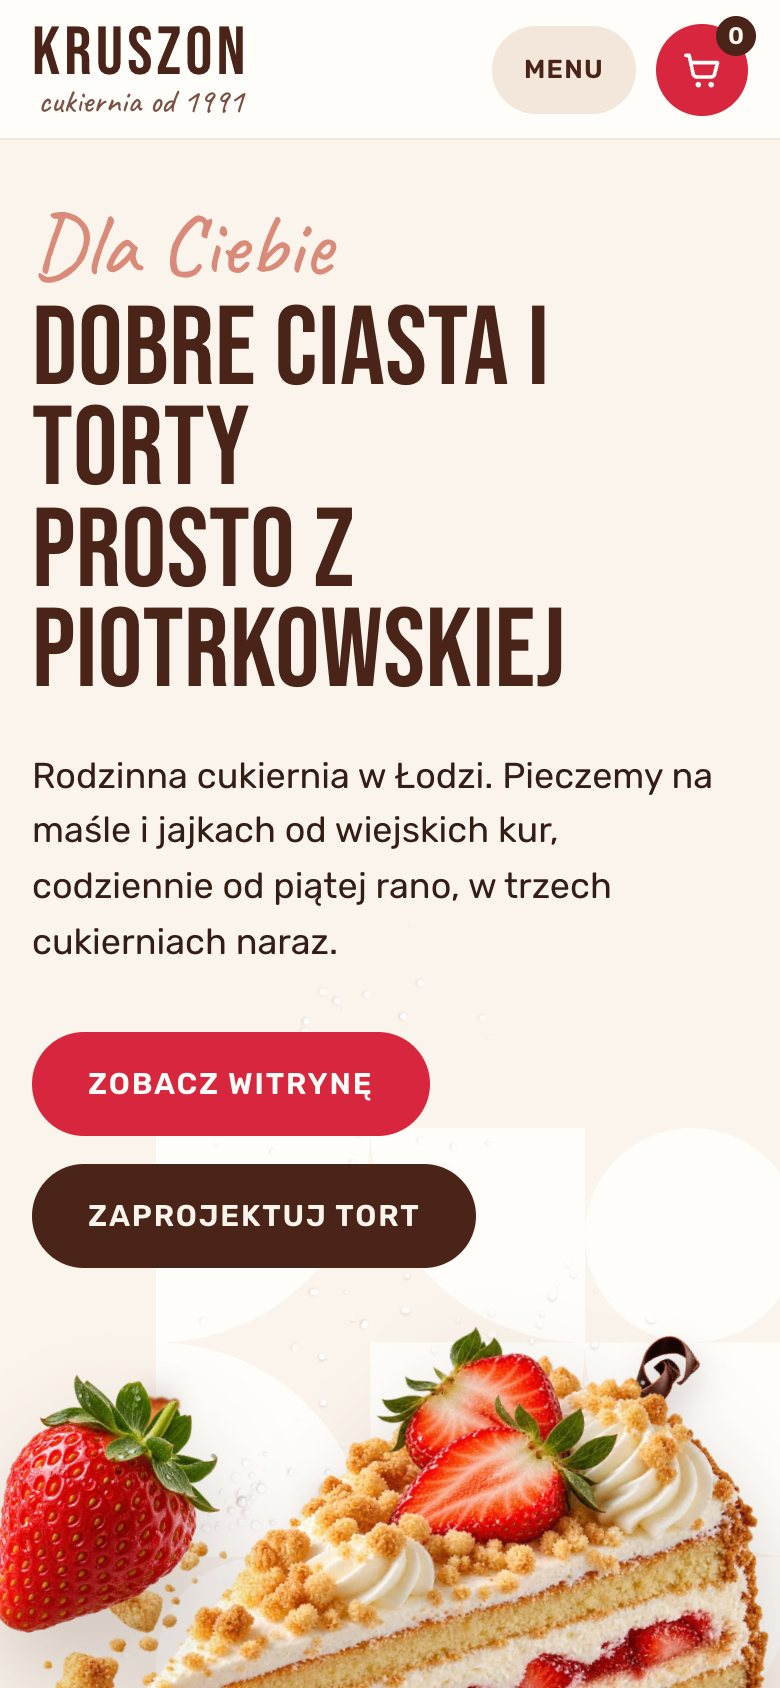
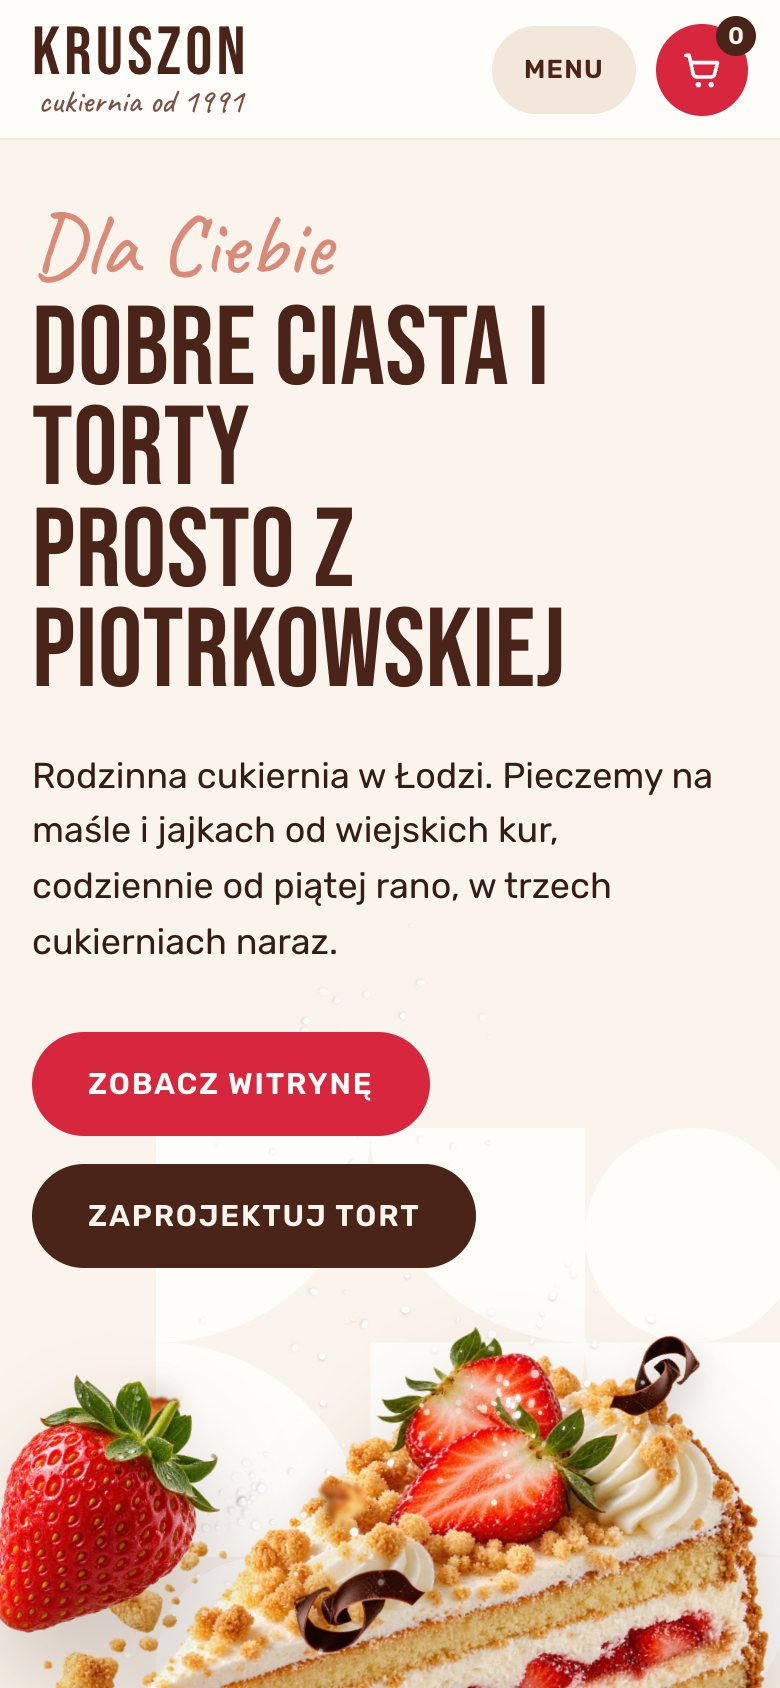
Kruszon: bez kępy owoców w pierwszym ekranie, truskawka i drobiny nad tortem; stopka w kolorze ciemnego dżemu

diff --git a/design/concepts/kruszon.html b/design/concepts/kruszon.html
@@ -10,7 +10,7 @@
 <link rel="preconnect" href="https://fonts.gstatic.com" crossorigin>
 <link href="https://fonts.googleapis.com/css2?family=Bebas+Neue&family=Caveat:wght@500;600&family=Rubik:wght@400;500;600&display=swap" rel="stylesheet">
 <script>(function(){var m=location.search.match(/[?&]pal=(\w+)/);if(m)document.documentElement.dataset.pal=m[1];document.documentElement.classList.add("js")})()</script>
-<link rel="stylesheet" href="assets/kruszon/site.css?v=6">
+<link rel="stylesheet" href="assets/kruszon/site.css?v=7">
 <style>
   .hero { position:relative; min-height:calc(100svh - 104px); display:grid; grid-template-columns:1fr 1fr; align-items:center; overflow:hidden; }
   .hero .pattern { position:absolute; right:-4vw; top:6%; width:min(50vw, 740px); z-index:0; }
@@ -21,7 +21,9 @@
   .hero .ctas { display:flex; gap:14px; margin-top:30px; flex-wrap:wrap; }
   .hero .stage { position:relative; z-index:1; height:100%; min-height:560px; }
   .hero .main { position:absolute; z-index:2; width:min(48vw, 760px); right:1%; top:22%; transform:rotate(-8deg); }
-  .hero .berry { z-index:3; }
+  /* truskawka i drobiny lecą nad kawałkiem tortu */
+  .hero .stage .scatter { z-index:3; }
+  .hero .berry { z-index:4; }
   .js .hero .main { animation:drop 1300ms 150ms var(--ease-out) both; }
   @keyframes drop { from { transform:translate(90px, -70px) rotate(10deg) scale(.86); opacity:0; } to { transform:rotate(-8deg); opacity:1; } }
 
@@ -139,7 +141,6 @@
   <div class="stage" aria-hidden="true" data-fly-box data-scatter="czek:4 krusz:6 cukier:3" data-scatter-x="5-95">
     <img class="main cut" src="assets/kruszon/gen/kawalek-tortu.webp" width="901" height="651" alt="" fetchpriority="high">
     <img class="flyer cut berry" style="--w:clamp(120px,12vw,200px)" data-fly="16 18 10 46 -28 14" src="assets/kruszon/gen/truskawka.webp" width="862" height="901" alt="">
-    <img class="flyer cut" style="--w:clamp(80px,8vw,140px)" data-fly="88 95 92 40 18 -12" src="assets/kruszon/gen/owoce.webp" width="901" height="800" alt="">
   </div>
 </section>
 

diff --git a/public/demo/concepts/kruszon.html b/public/demo/concepts/kruszon.html
@@ -10,7 +10,7 @@
 <link rel="preconnect" href="https://fonts.gstatic.com" crossorigin>
 <link href="https://fonts.googleapis.com/css2?family=Bebas+Neue&family=Caveat:wght@500;600&family=Rubik:wght@400;500;600&display=swap" rel="stylesheet">
 <script>(function(){var m=location.search.match(/[?&]pal=(\w+)/);if(m)document.documentElement.dataset.pal=m[1];document.documentElement.classList.add("js")})()</script>
-<link rel="stylesheet" href="assets/kruszon/site.css?v=6">
+<link rel="stylesheet" href="assets/kruszon/site.css?v=7">
 <style>
   .hero { position:relative; min-height:calc(100svh - 104px); display:grid; grid-template-columns:1fr 1fr; align-items:center; overflow:hidden; }
   .hero .pattern { position:absolute; right:-4vw; top:6%; width:min(50vw, 740px); z-index:0; }
@@ -21,7 +21,9 @@
   .hero .ctas { display:flex; gap:14px; margin-top:30px; flex-wrap:wrap; }
   .hero .stage { position:relative; z-index:1; height:100%; min-height:560px; }
   .hero .main { position:absolute; z-index:2; width:min(48vw, 760px); right:1%; top:22%; transform:rotate(-8deg); }
-  .hero .berry { z-index:3; }
+  /* truskawka i drobiny lecą nad kawałkiem tortu */
+  .hero .stage .scatter { z-index:3; }
+  .hero .berry { z-index:4; }
   .js .hero .main { animation:drop 1300ms 150ms var(--ease-out) both; }
   @keyframes drop { from { transform:translate(90px, -70px) rotate(10deg) scale(.86); opacity:0; } to { transform:rotate(-8deg); opacity:1; } }
 
@@ -139,7 +141,6 @@
   <div class="stage" aria-hidden="true" data-fly-box data-scatter="czek:4 krusz:6 cukier:3" data-scatter-x="5-95">
     <img class="main cut" src="assets/kruszon/gen/kawalek-tortu.webp" width="901" height="651" alt="" fetchpriority="high">
     <img class="flyer cut berry" style="--w:clamp(120px,12vw,200px)" data-fly="16 18 10 46 -28 14" src="assets/kruszon/gen/truskawka.webp" width="862" height="901" alt="">
-    <img class="flyer cut" style="--w:clamp(80px,8vw,140px)" data-fly="88 95 92 40 18 -12" src="assets/kruszon/gen/owoce.webp" width="901" height="800" alt="">
   </div>
 </section>
 

diff --git a/design/concepts/assets/kruszon/site.css b/design/concepts/assets/kruszon/site.css
@@ -7,6 +7,8 @@
 :root, html[data-pal="malina"] {
   --bg:#fbf4ec; --bg-2:#f3e6da; --card:#fffdfa; --accent:#d7263d; --accent-2:#b81c31; --accent-ink:#fffdfa;
   --ink:#341c17; --head:#4a2419; --soft:#7b5146; --script-c:#d98a78; --big:#d7263d; --pattern:#fffdfa; --crumb-a:#c4895d; --crumb-b:#e0b48a;
+  /* stopka w kolorze ciemnego dżemu truskawkowego */
+  --foot:#7d1323; --foot-ink:#fff1ec; --foot-big:#ffe1db; --foot-h:#ff9aa3; --foot-script:#ffc2bd;
 }
 /* Pistacja: zieleń pistacji i gorzka czekolada */
 html[data-pal="pistacja"] {
@@ -147,12 +149,12 @@ p { max-width:68ch; }
 .drawer .msg { font-weight:500; min-height:1.4em; }
 
 /* ---------- stopka ---------- */
-footer { background:var(--head); color:var(--bg); padding:70px var(--m) 40px; position:relative; overflow:hidden; }
+footer { background:var(--foot, var(--head)); color:var(--foot-ink, var(--bg)); padding:70px var(--m) 40px; position:relative; overflow:hidden; }
 footer .wrap { padding:0; }
-footer .big { font:400 clamp(110px, 20vw, 340px)/.8 var(--display); color:var(--accent); letter-spacing:.02em; }
-footer .script { font-size:clamp(34px, 3vw, 52px); color:var(--bg); margin-top:6px; margin-left:4px; }
+footer .big { font:400 clamp(110px, 20vw, 340px)/.8 var(--display); color:var(--foot-big, var(--accent)); letter-spacing:.02em; }
+footer .script { font-size:clamp(34px, 3vw, 52px); color:var(--foot-script, var(--bg)); margin-top:6px; margin-left:4px; }
 footer .cols { display:grid; grid-template-columns:repeat(4, 1fr); gap:24px; margin-top:44px; font-size:15px; }
-footer .cols b { display:block; font:400 24px var(--display); letter-spacing:.04em; color:var(--accent); margin-bottom:8px; }
+footer .cols b { display:block; font:400 24px var(--display); letter-spacing:.04em; color:var(--foot-h, var(--accent)); margin-bottom:8px; }
 footer .cols a { display:block; text-decoration:none; padding:3px 0; }
 footer .cols a:hover { text-decoration:underline; }
 footer .credits { margin-top:40px; font-size:13px; opacity:.75; max-width:75ch; }

diff --git a/public/demo/concepts/assets/kruszon/site.css b/public/demo/concepts/assets/kruszon/site.css
@@ -7,6 +7,8 @@
 :root, html[data-pal="malina"] {
   --bg:#fbf4ec; --bg-2:#f3e6da; --card:#fffdfa; --accent:#d7263d; --accent-2:#b81c31; --accent-ink:#fffdfa;
   --ink:#341c17; --head:#4a2419; --soft:#7b5146; --script-c:#d98a78; --big:#d7263d; --pattern:#fffdfa; --crumb-a:#c4895d; --crumb-b:#e0b48a;
+  /* stopka w kolorze ciemnego dżemu truskawkowego */
+  --foot:#7d1323; --foot-ink:#fff1ec; --foot-big:#ffe1db; --foot-h:#ff9aa3; --foot-script:#ffc2bd;
 }
 /* Pistacja: zieleń pistacji i gorzka czekolada */
 html[data-pal="pistacja"] {
@@ -147,12 +149,12 @@ p { max-width:68ch; }
 .drawer .msg { font-weight:500; min-height:1.4em; }
 
 /* ---------- stopka ---------- */
-footer { background:var(--head); color:var(--bg); padding:70px var(--m) 40px; position:relative; overflow:hidden; }
+footer { background:var(--foot, var(--head)); color:var(--foot-ink, var(--bg)); padding:70px var(--m) 40px; position:relative; overflow:hidden; }
 footer .wrap { padding:0; }
-footer .big { font:400 clamp(110px, 20vw, 340px)/.8 var(--display); color:var(--accent); letter-spacing:.02em; }
-footer .script { font-size:clamp(34px, 3vw, 52px); color:var(--bg); margin-top:6px; margin-left:4px; }
+footer .big { font:400 clamp(110px, 20vw, 340px)/.8 var(--display); color:var(--foot-big, var(--accent)); letter-spacing:.02em; }
+footer .script { font-size:clamp(34px, 3vw, 52px); color:var(--foot-script, var(--bg)); margin-top:6px; margin-left:4px; }
 footer .cols { display:grid; grid-template-columns:repeat(4, 1fr); gap:24px; margin-top:44px; font-size:15px; }
-footer .cols b { display:block; font:400 24px var(--display); letter-spacing:.04em; color:var(--accent); margin-bottom:8px; }
+footer .cols b { display:block; font:400 24px var(--display); letter-spacing:.04em; color:var(--foot-h, var(--accent)); margin-bottom:8px; }
 footer .cols a { display:block; text-decoration:none; padding:3px 0; }
 footer .cols a:hover { text-decoration:underline; }
 footer .credits { margin-top:40px; font-size:13px; opacity:.75; max-width:75ch; }

diff --git a/design/concepts/_kruszon/pages/home.html b/design/concepts/_kruszon/pages/home.html
@@ -8,7 +8,9 @@
   .hero .ctas { display:flex; gap:14px; margin-top:30px; flex-wrap:wrap; }
   .hero .stage { position:relative; z-index:1; height:100%; min-height:560px; }
   .hero .main { position:absolute; z-index:2; width:min(48vw, 760px); right:1%; top:22%; transform:rotate(-8deg); }
-  .hero .berry { z-index:3; }
+  /* truskawka i drobiny lecą nad kawałkiem tortu */
+  .hero .stage .scatter { z-index:3; }
+  .hero .berry { z-index:4; }
   .js .hero .main { animation:drop 1300ms 150ms var(--ease-out) both; }
   @keyframes drop { from { transform:translate(90px, -70px) rotate(10deg) scale(.86); opacity:0; } to { transform:rotate(-8deg); opacity:1; } }
 
@@ -104,7 +106,6 @@
   <div class="stage" aria-hidden="true" data-fly-box data-scatter="czek:4 krusz:6 cukier:3" data-scatter-x="5-95">
     <img class="main cut" src="assets/kruszon/gen/kawalek-tortu.webp" width="901" height="651" alt="" fetchpriority="high">
     <img class="flyer cut berry" style="--w:clamp(120px,12vw,200px)" data-fly="16 18 10 46 -28 14" src="assets/kruszon/gen/truskawka.webp" width="862" height="901" alt="">
-    <img class="flyer cut" style="--w:clamp(80px,8vw,140px)" data-fly="88 95 92 40 18 -12" src="assets/kruszon/gen/owoce.webp" width="901" height="800" alt="">
   </div>
 </section>
 

diff --git a/design/concepts/kruszon-cukiernie.html b/design/concepts/kruszon-cukiernie.html
@@ -10,7 +10,7 @@
 <link rel="preconnect" href="https://fonts.gstatic.com" crossorigin>
 <link href="https://fonts.googleapis.com/css2?family=Bebas+Neue&family=Caveat:wght@500;600&family=Rubik:wght@400;500;600&display=swap" rel="stylesheet">
 <script>(function(){var m=location.search.match(/[?&]pal=(\w+)/);if(m)document.documentElement.dataset.pal=m[1];document.documentElement.classList.add("js")})()</script>
-<link rel="stylesheet" href="assets/kruszon/site.css?v=6">
+<link rel="stylesheet" href="assets/kruszon/site.css?v=7">
 <style>
   .where { display:grid; grid-template-columns:1.05fr .95fr; gap:clamp(28px, 4vw, 56px); align-items:start; padding-bottom:clamp(90px, 10vw, 140px); }
   .map { position:sticky; top:122px; background:var(--card); border-radius:28px; padding:16px; }

diff --git a/public/demo/concepts/kruszon-cukiernie.html b/public/demo/concepts/kruszon-cukiernie.html
@@ -10,7 +10,7 @@
 <link rel="preconnect" href="https://fonts.gstatic.com" crossorigin>
 <link href="https://fonts.googleapis.com/css2?family=Bebas+Neue&family=Caveat:wght@500;600&family=Rubik:wght@400;500;600&display=swap" rel="stylesheet">
 <script>(function(){var m=location.search.match(/[?&]pal=(\w+)/);if(m)document.documentElement.dataset.pal=m[1];document.documentElement.classList.add("js")})()</script>
-<link rel="stylesheet" href="assets/kruszon/site.css?v=6">
+<link rel="stylesheet" href="assets/kruszon/site.css?v=7">
 <style>
   .where { display:grid; grid-template-columns:1.05fr .95fr; gap:clamp(28px, 4vw, 56px); align-items:start; padding-bottom:clamp(90px, 10vw, 140px); }
   .map { position:sticky; top:122px; background:var(--card); border-radius:28px; padding:16px; }

diff --git a/design/concepts/kruszon-tort.html b/design/concepts/kruszon-tort.html
@@ -10,7 +10,7 @@
 <link rel="preconnect" href="https://fonts.gstatic.com" crossorigin>
 <link href="https://fonts.googleapis.com/css2?family=Bebas+Neue&family=Caveat:wght@500;600&family=Rubik:wght@400;500;600&display=swap" rel="stylesheet">
 <script>(function(){var m=location.search.match(/[?&]pal=(\w+)/);if(m)document.documentElement.dataset.pal=m[1];document.documentElement.classList.add("js")})()</script>
-<link rel="stylesheet" href="assets/kruszon/site.css?v=6">
+<link rel="stylesheet" href="assets/kruszon/site.css?v=7">
 <style>
   .phead h1 { max-width:12ch; }
   .studio { display:grid; grid-template-columns:minmax(0, 1.25fr) minmax(0, .75fr); gap:clamp(28px, 4vw, 64px); align-items:start; padding-bottom:clamp(90px, 10vw, 140px); }

diff --git a/public/demo/concepts/kruszon-tort.html b/public/demo/concepts/kruszon-tort.html
@@ -10,7 +10,7 @@
 <link rel="preconnect" href="https://fonts.gstatic.com" crossorigin>
 <link href="https://fonts.googleapis.com/css2?family=Bebas+Neue&family=Caveat:wght@500;600&family=Rubik:wght@400;500;600&display=swap" rel="stylesheet">
 <script>(function(){var m=location.search.match(/[?&]pal=(\w+)/);if(m)document.documentElement.dataset.pal=m[1];document.documentElement.classList.add("js")})()</script>
-<link rel="stylesheet" href="assets/kruszon/site.css?v=6">
+<link rel="stylesheet" href="assets/kruszon/site.css?v=7">
 <style>
   .phead h1 { max-width:12ch; }
   .studio { display:grid; grid-template-columns:minmax(0, 1.25fr) minmax(0, .75fr); gap:clamp(28px, 4vw, 64px); align-items:start; padding-bottom:clamp(90px, 10vw, 140px); }

diff --git a/design/concepts/kruszon-katalog.html b/design/concepts/kruszon-katalog.html
@@ -10,7 +10,7 @@
 <link rel="preconnect" href="https://fonts.gstatic.com" crossorigin>
 <link href="https://fonts.googleapis.com/css2?family=Bebas+Neue&family=Caveat:wght@500;600&family=Rubik:wght@400;500;600&display=swap" rel="stylesheet">
 <script>(function(){var m=location.search.match(/[?&]pal=(\w+)/);if(m)document.documentElement.dataset.pal=m[1];document.documentElement.classList.add("js")})()</script>
-<link rel="stylesheet" href="assets/kruszon/site.css?v=6">
+<link rel="stylesheet" href="assets/kruszon/site.css?v=7">
 <style>
   .phead .side { position:absolute; right:var(--m); top:50%; translate:0 -50%; width:min(30vw, 420px); }
   .phead .lead, .phead h1, .phead .script { max-width:60%; }

diff --git a/design/concepts/kruszon-o-nas.html b/design/concepts/kruszon-o-nas.html
@@ -10,7 +10,7 @@
 <link rel="preconnect" href="https://fonts.gstatic.com" crossorigin>
 <link href="https://fonts.googleapis.com/css2?family=Bebas+Neue&family=Caveat:wght@500;600&family=Rubik:wght@400;500;600&display=swap" rel="stylesheet">
 <script>(function(){var m=location.search.match(/[?&]pal=(\w+)/);if(m)document.documentElement.dataset.pal=m[1];document.documentElement.classList.add("js")})()</script>
-<link rel="stylesheet" href="assets/kruszon/site.css?v=6">
+<link rel="stylesheet" href="assets/kruszon/site.css?v=7">
 <style>
   .phead .side { position:absolute; right:var(--m); top:52%; translate:0 -50%; width:min(28vw, 400px); }
   .phead .lead, .phead h1, .phead .script { max-width:60%; }

diff --git a/public/demo/concepts/kruszon-katalog.html b/public/demo/concepts/kruszon-katalog.html
@@ -10,7 +10,7 @@
 <link rel="preconnect" href="https://fonts.gstatic.com" crossorigin>
 <link href="https://fonts.googleapis.com/css2?family=Bebas+Neue&family=Caveat:wght@500;600&family=Rubik:wght@400;500;600&display=swap" rel="stylesheet">
 <script>(function(){var m=location.search.match(/[?&]pal=(\w+)/);if(m)document.documentElement.dataset.pal=m[1];document.documentElement.classList.add("js")})()</script>
-<link rel="stylesheet" href="assets/kruszon/site.css?v=6">
+<link rel="stylesheet" href="assets/kruszon/site.css?v=7">
 <style>
   .phead .side { position:absolute; right:var(--m); top:50%; translate:0 -50%; width:min(30vw, 420px); }
   .phead .lead, .phead h1, .phead .script { max-width:60%; }
